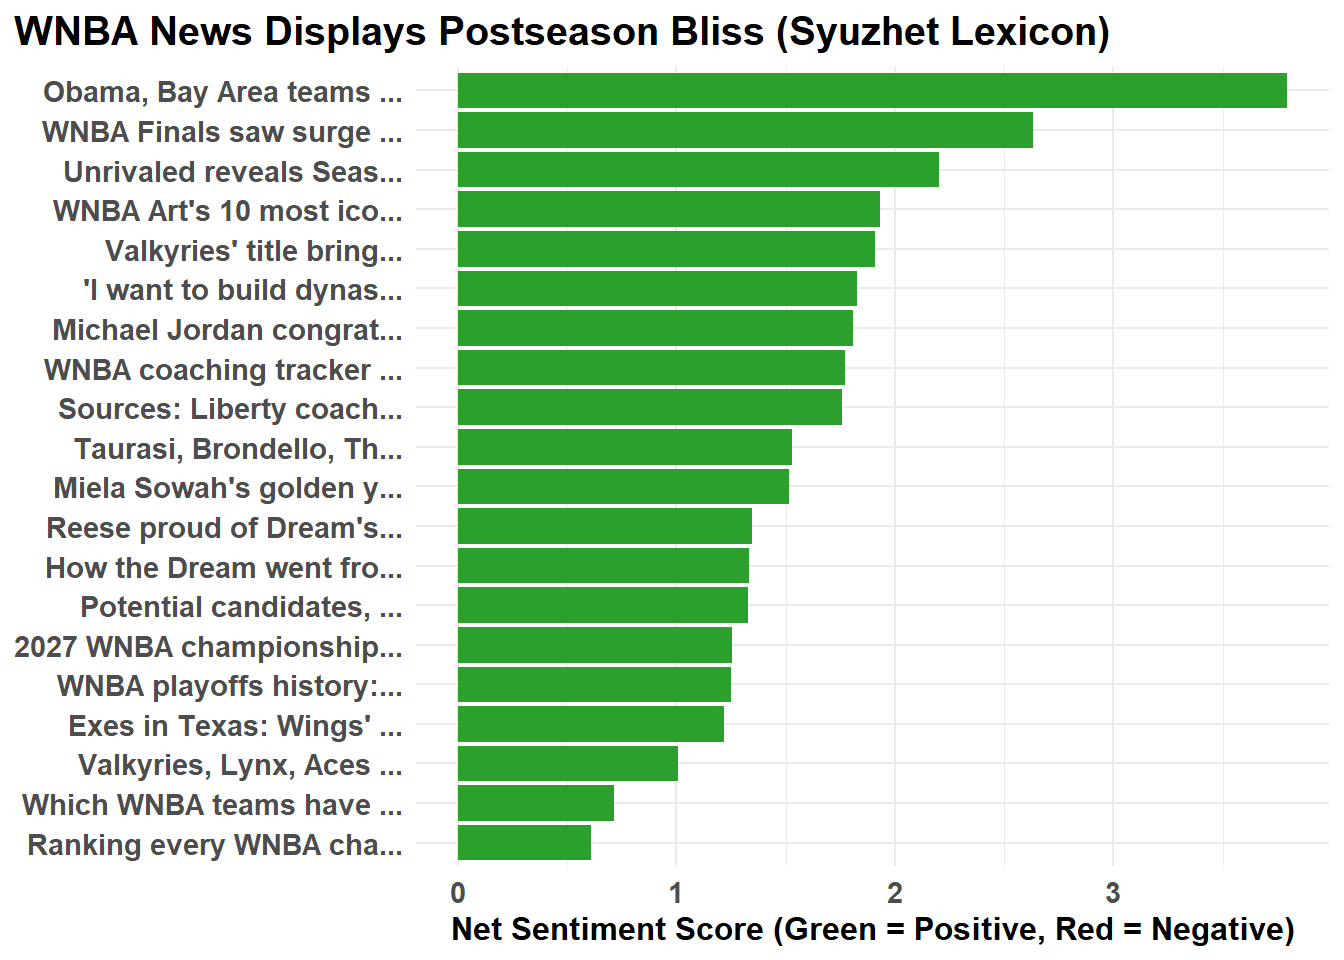
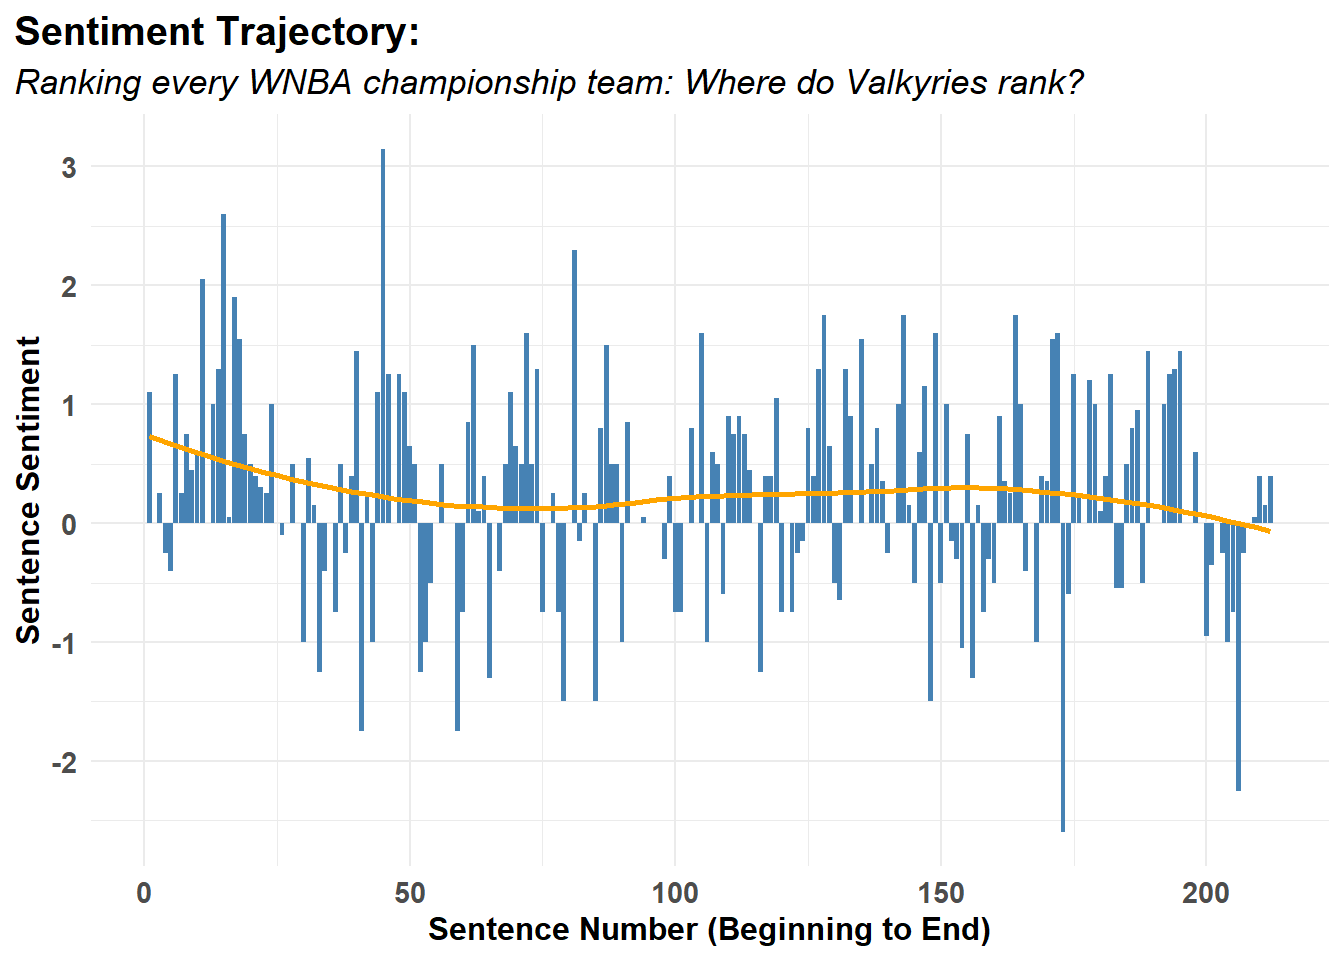
codebase re-render

diff --git a/Assignment10A-KCH-Codebase.html b/Assignment10A-KCH-Codebase.html
@@ -751,9 +751,10 @@ Figure&nbsp;1: Sentiment Trajectory Across Jane Austen Novels Using Bing lexicon
 </section>
 <section id="step-2-extension-to-espns-wnba-news" class="level2">
 <h2 class="anchored" data-anchor-id="step-2-extension-to-espns-wnba-news">Step 2: Extension to ESPN’s WNBA News</h2>
-<p>While RSS feeds provide immediate, structured access to media headlines, RSS descriptions are typically restricted to short teaser blurbs. To create a rich corpus suitable for narrative-level analysis, we use the article hyperlinks embedded in the feed to programmatically extract the complete paragraph text (<code>&lt;p&gt;</code>) from ESPN’s website.</p>
+<p>While RSS feeds provide immediate, structured access to media headlines, RSS descriptions are typically restricted to short teaser blurbs. To create a rich corpus suitable for narrative-level analysis, the article hyperlinks embedded in the feed are used to extract the complete paragraph text (<code>&lt;p&gt;</code>) from ESPN’s website.</p>
 <section id="data-loading" class="level3">
 <h3 class="anchored" data-anchor-id="data-loading">Data loading</h3>
+<p>Real-time media analysis begins with data collection. The <code>tidyRSS</code> package <span class="citation" data-cites="tidyRSS">(<a href="#ref-tidyRSS" role="doc-biblioref">McDonnell 2021</a>)</span> is used to query ESPN’s live WNBA RSS endpoint. While RSS feeds provide structured access to new stories, the feed itself contains only article headlines and brief teaser descriptions.</p>
 <div class="cell">
 <details class="code-fold">
 <summary>Code</summary>
@@ -794,6 +795,9 @@ Figure&nbsp;1: Sentiment Trajectory Across Jane Austen Novels Using Bing lexicon
 </table>
 </div>
 </div>
+To achieve an analytical depth comparable to the full-length chapters analyzed in Jane Austen’s novels, we cannot rely solely on 30-word summary blurbs. Using the canonical URLs captured in the item_link column, we build a custom web scraper using rvest to extract all paragraph elements (
+<p>
+</p><p>) from the body of each reporting piece. A tryCatch wrapper is included to handle potential network timeouts or paywall redirects gracefully, ensuring the Quarto document compiles cleanly without breaking if an individual link fails.</p>
 <div class="cell">
 <details class="code-fold">
 <summary>Code</summary>
@@ -821,6 +825,7 @@ Figure&nbsp;1: Sentiment Trajectory Across Jane Austen Novels Using Bing lexicon
 <p>1. Measuring overall polarity using Matthew Jockers’ <code>syuzhet</code> dictionary.</p>
 <p>2. Extracting the most frequent positive and negative sentiment drivers via <code>bing</code>.</p>
 <p>3. Scaling sentiment by word count to remove length bias, and plotting the sentence-by-sentence narrative arc of the longest feature story.</p>
+<p>First, evaluating the initial feed text using the syuzhet lexicon <span class="citation" data-cites="syuzhet">(<a href="#ref-syuzhet" role="doc-biblioref">Jockers 2020</a>)</span> is undertaken. Unlike binary dictionaries that simply tally words, the Syuzhet engine assigns continuous emotional valence to sentences and short texts.</p>
 <div class="cell">
 <div class="cell-output-display">
 <table class="caption-top table table-sm table-striped small">
@@ -865,6 +870,8 @@ Figure&nbsp;1: Sentiment Trajectory Across Jane Austen Novels Using Bing lexicon
 </div>
 </div>
 </div>
+<p>As visualized in the histogram above ( <span class="citation" data-cites="syuzhet-wnba">(<a href="#ref-syuzhet-wnba" role="doc-biblioref"><strong>syuzhet-wnba?</strong></a>)</span>), the distribution of sentiment across WNBA headlines is strongly right-skewed. Every single article in the feed scores above the neutral baseline (red dashed line at zero). Even articles discussing team struggles or player recoveries are framed through a positive editorial lens (e.g., highlighting resilience or historic milestones).</p>
+<p>To understand which terms drive this positivity, Chapter 2’s tokenization and join methodology is mirrored. The full-text corpus is unnsted into individual words, common stop words are stripped, and the corpus is joined against the bing lexicon to evaluate word-level contribution.</p>
 <div class="cell">
 <div class="cell-output-display">
 <div class="quarto-figure quarto-figure-center">
@@ -875,33 +882,50 @@ Figure&nbsp;1: Sentiment Trajectory Across Jane Austen Novels Using Bing lexicon
 </div>
 </div>
 </div>
+<p>The word contribution plot ( <span class="citation" data-cites="words-wnba">(<a href="#ref-words-wnba" role="doc-biblioref"><strong>words-wnba?</strong></a>)</span> ) illustrates both the strengths and the inherent limitations of using general-purpose lexicons on specialized sports data. First, terms like “lead”, “award”, “championship”, and “top” dominate the positive facet, reflecting celebratory coverage of seasonal awards and championship milestones. Second, terms like “loss”, “foul”, “cold”, and “offensive” heavily populate the negative facet. In sports analytics, these are neutral, mechanical descriptors of play rather than indicators of genuine negative sentiment. This parallels Silge &amp; Robinson’s finding regarding the word “miss” in Austen’s novels.</p>
+<p>When analyzing long-form journalism, raw cumulative sentiment is inherently confounded by article length: a 2,500-word feature story will naturally amass a higher total score than a 250-word roster bulletin simply due to word volume. To resolve this length bias, we compute a length-normalized sentiment index:</p>
+<p><span class="math inline">\(Normalized Score=\frac{Syuzhet Cumulative Sentiment}{Total Word Count }×100\)</span></p>
+<p>This represents the net emotional valence per 100 words of prose.</p>
+<div class="cell">
+<div class="cell-output-display">
+<div class="quarto-figure quarto-figure-center">
+<figure class="figure">
+<p><img src="Assignment10A-KCH-Codebase_files/figure-html/wnba-normalized-scores-1.png" class="img-fluid figure-img" width="672"></p>
+<figcaption>WNBA News Displays Postseason Bliss (Syuzhet Lexicon)</figcaption>
+</figure>
+</div>
+</div>
+</div>
+<p>Normalizing by length reveals that the highest sentiment concentrations belong to forward-looking, celebratory headlines (such as championship parade reporting and franchise dynasty declarations). Even after adjusting for document length, every single article remains net positive, highlighting the pervasive promotional optimism of the WNBA offseason media cycle.</p>
+<p>In Chapter 2, Silge and Robinson demonstrated how Austen’s novels can be viewed as narrative arcs with emotional peaks and valleys. To determine whether modern sports journalism exhibits similar narrative arcs, the longest article in the corpus is isolate, segmented it into individual sentences, and then sentence-level sentiment progression from start to finish can be tracked. A LOESS smoothing curve is overlaid to capture the underlying emotional trajectory.</p>
 <div class="cell">
 <details class="code-fold">
 <summary>Code</summary>
-<div class="code-copy-outer-scaffold"><div class="sourceCode cell-code" id="cb26"><pre class="sourceCode r code-with-copy"><code class="sourceCode r"><span id="cb26-1"><a href="#cb26-1" aria-hidden="true" tabindex="-1"></a>wnba_scored <span class="ot">&lt;-</span> wnba_full_articles <span class="sc">|&gt;</span></span>
-<span id="cb26-2"><a href="#cb26-2" aria-hidden="true" tabindex="-1"></a>  <span class="fu">mutate</span>(</span>
-<span id="cb26-3"><a href="#cb26-3" aria-hidden="true" tabindex="-1"></a>    <span class="at">article_id =</span> <span class="fu">row_number</span>(),</span>
-<span id="cb26-4"><a href="#cb26-4" aria-hidden="true" tabindex="-1"></a>    <span class="at">clean_title =</span> stringr<span class="sc">::</span><span class="fu">str_replace_all</span>(title, <span class="st">"[^</span><span class="sc">\x01</span><span class="st">-</span><span class="sc">\x7F</span><span class="st">]+"</span>, <span class="st">""</span>),</span>
-<span id="cb26-5"><a href="#cb26-5" aria-hidden="true" tabindex="-1"></a>    <span class="at">short_title =</span> stringr<span class="sc">::</span><span class="fu">str_trunc</span>(clean_title, <span class="dv">25</span>),</span>
-<span id="cb26-6"><a href="#cb26-6" aria-hidden="true" tabindex="-1"></a>     <span class="at">word_count =</span> stringr<span class="sc">::</span><span class="fu">str_count</span>(full_article_text, <span class="st">"</span><span class="sc">\\</span><span class="st">w+"</span>),</span>
-<span id="cb26-7"><a href="#cb26-7" aria-hidden="true" tabindex="-1"></a>    <span class="at">sentiment_score =</span> <span class="fu">get_sentiment</span>(full_article_text, <span class="at">method =</span> <span class="st">"syuzhet"</span>),</span>
-<span id="cb26-8"><a href="#cb26-8" aria-hidden="true" tabindex="-1"></a>    <span class="at">sentiment_normalized =</span> (sentiment_score <span class="sc">/</span> word_count) <span class="sc">*</span> <span class="dv">100</span></span>
+<div class="code-copy-outer-scaffold"><div class="sourceCode cell-code" id="cb26"><pre class="sourceCode r code-with-copy"><code class="sourceCode r"><span id="cb26-1"><a href="#cb26-1" aria-hidden="true" tabindex="-1"></a>longest_article <span class="ot">&lt;-</span> wnba_full_articles <span class="sc">|&gt;</span></span>
+<span id="cb26-2"><a href="#cb26-2" aria-hidden="true" tabindex="-1"></a>  <span class="fu">slice_max</span>(<span class="fu">nchar</span>(full_article_text), <span class="at">n =</span> <span class="dv">1</span>)</span>
+<span id="cb26-3"><a href="#cb26-3" aria-hidden="true" tabindex="-1"></a></span>
+<span id="cb26-4"><a href="#cb26-4" aria-hidden="true" tabindex="-1"></a>article_sentences <span class="ot">&lt;-</span> <span class="fu">tibble</span>(<span class="at">text =</span> longest_article<span class="sc">$</span>full_article_text) <span class="sc">|&gt;</span></span>
+<span id="cb26-5"><a href="#cb26-5" aria-hidden="true" tabindex="-1"></a>  <span class="fu">unnest_tokens</span>(sentence, text, <span class="at">token =</span> <span class="st">"sentences"</span>) <span class="sc">|&gt;</span></span>
+<span id="cb26-6"><a href="#cb26-6" aria-hidden="true" tabindex="-1"></a>  <span class="fu">mutate</span>(</span>
+<span id="cb26-7"><a href="#cb26-7" aria-hidden="true" tabindex="-1"></a>    <span class="at">sentence_num =</span> <span class="fu">row_number</span>(),</span>
+<span id="cb26-8"><a href="#cb26-8" aria-hidden="true" tabindex="-1"></a>    <span class="at">sentiment =</span> <span class="fu">get_sentiment</span>(sentence, <span class="at">method =</span> <span class="st">"syuzhet"</span>)</span>
 <span id="cb26-9"><a href="#cb26-9" aria-hidden="true" tabindex="-1"></a>  )</span>
 <span id="cb26-10"><a href="#cb26-10" aria-hidden="true" tabindex="-1"></a></span>
-<span id="cb26-11"><a href="#cb26-11" aria-hidden="true" tabindex="-1"></a>wnba_scored <span class="sc">|&gt;</span> </span>
-<span id="cb26-12"><a href="#cb26-12" aria-hidden="true" tabindex="-1"></a>  <span class="fu">ggplot</span>(<span class="fu">aes</span>(<span class="at">x =</span> <span class="fu">reorder</span>(short_title, sentiment_normalized), </span>
-<span id="cb26-13"><a href="#cb26-13" aria-hidden="true" tabindex="-1"></a>             <span class="at">y =</span> sentiment_normalized, </span>
-<span id="cb26-14"><a href="#cb26-14" aria-hidden="true" tabindex="-1"></a>             <span class="at">fill =</span> sentiment_score <span class="sc">&gt;</span> <span class="dv">0</span>)) <span class="sc">+</span></span>
-<span id="cb26-15"><a href="#cb26-15" aria-hidden="true" tabindex="-1"></a>  <span class="fu">geom_col</span>(<span class="at">show.legend =</span> <span class="cn">FALSE</span>) <span class="sc">+</span></span>
-<span id="cb26-16"><a href="#cb26-16" aria-hidden="true" tabindex="-1"></a>  <span class="fu">coord_flip</span>() <span class="sc">+</span></span>
-<span id="cb26-17"><a href="#cb26-17" aria-hidden="true" tabindex="-1"></a>  <span class="fu">scale_fill_manual</span>(<span class="at">values =</span> <span class="fu">c</span>(<span class="st">"TRUE"</span> <span class="ot">=</span> <span class="st">"#2ca02c"</span>, <span class="st">"FALSE"</span> <span class="ot">=</span> <span class="st">"#d62728"</span>)) <span class="sc">+</span></span>
+<span id="cb26-11"><a href="#cb26-11" aria-hidden="true" tabindex="-1"></a>article_sentences <span class="sc">|&gt;</span> </span>
+<span id="cb26-12"><a href="#cb26-12" aria-hidden="true" tabindex="-1"></a>  <span class="fu">ggplot</span>(<span class="fu">aes</span>(<span class="at">x =</span> sentence_num, <span class="at">y =</span> sentiment)) <span class="sc">+</span></span>
+<span id="cb26-13"><a href="#cb26-13" aria-hidden="true" tabindex="-1"></a>  <span class="fu">geom_col</span>(<span class="at">fill =</span> <span class="st">"steelblue"</span>) <span class="sc">+</span></span>
+<span id="cb26-14"><a href="#cb26-14" aria-hidden="true" tabindex="-1"></a>  <span class="fu">geom_smooth</span>(<span class="at">method =</span> <span class="st">'loess'</span>, </span>
+<span id="cb26-15"><a href="#cb26-15" aria-hidden="true" tabindex="-1"></a>              <span class="at">formula =</span> <span class="st">'y ~ x'</span>, </span>
+<span id="cb26-16"><a href="#cb26-16" aria-hidden="true" tabindex="-1"></a>              <span class="at">se =</span> <span class="cn">FALSE</span>, </span>
+<span id="cb26-17"><a href="#cb26-17" aria-hidden="true" tabindex="-1"></a>              <span class="at">color =</span> <span class="st">"orange"</span>) <span class="sc">+</span></span>
 <span id="cb26-18"><a href="#cb26-18" aria-hidden="true" tabindex="-1"></a>  <span class="fu">theme_minimal</span>() <span class="sc">+</span></span>
 <span id="cb26-19"><a href="#cb26-19" aria-hidden="true" tabindex="-1"></a>  <span class="fu">labs</span>(</span>
-<span id="cb26-20"><a href="#cb26-20" aria-hidden="true" tabindex="-1"></a>    <span class="at">title =</span> <span class="st">"WNBA News Displays Postseason Bliss (Syuzhet Lexicon)"</span>,</span>
-<span id="cb26-21"><a href="#cb26-21" aria-hidden="true" tabindex="-1"></a>    <span class="at">x =</span> <span class="cn">NULL</span>,</span>
-<span id="cb26-22"><a href="#cb26-22" aria-hidden="true" tabindex="-1"></a>    <span class="at">y =</span> <span class="st">"Net Sentiment Score (Green = Positive, Red = Negative)"</span></span>
-<span id="cb26-23"><a href="#cb26-23" aria-hidden="true" tabindex="-1"></a>  ) <span class="sc">+</span></span>
-<span id="cb26-24"><a href="#cb26-24" aria-hidden="true" tabindex="-1"></a>  <span class="fu">theme_standard</span>()</span></code></pre></div><button title="Copy to Clipboard" class="code-copy-button"><i class="bi"></i></button></div>
+<span id="cb26-20"><a href="#cb26-20" aria-hidden="true" tabindex="-1"></a>    <span class="at">title =</span> <span class="st">"Sentiment Trajectory:"</span>,</span>
+<span id="cb26-21"><a href="#cb26-21" aria-hidden="true" tabindex="-1"></a>    <span class="at">subtitle =</span> <span class="fu">paste</span>(stringr<span class="sc">::</span><span class="fu">str_trunc</span>(longest_article<span class="sc">$</span>title, <span class="dv">90</span>)),</span>
+<span id="cb26-22"><a href="#cb26-22" aria-hidden="true" tabindex="-1"></a>    <span class="at">x =</span> <span class="st">"Sentence Number (Beginning to End)"</span>,</span>
+<span id="cb26-23"><a href="#cb26-23" aria-hidden="true" tabindex="-1"></a>    <span class="at">y =</span> <span class="st">"Sentence Sentiment"</span></span>
+<span id="cb26-24"><a href="#cb26-24" aria-hidden="true" tabindex="-1"></a>  ) <span class="sc">+</span></span>
+<span id="cb26-25"><a href="#cb26-25" aria-hidden="true" tabindex="-1"></a>  <span class="fu">theme_standard</span>()</span></code></pre></div><button title="Copy to Clipboard" class="code-copy-button"><i class="bi"></i></button></div>
 </details>
 <div class="cell-output-display">
 <div>
@@ -911,43 +935,12 @@ Figure&nbsp;1: Sentiment Trajectory Across Jane Austen Novels Using Bing lexicon
 </div>
 </div>
 </div>
-<div class="cell">
-<details class="code-fold">
-<summary>Code</summary>
-<div class="code-copy-outer-scaffold"><div class="sourceCode cell-code" id="cb27"><pre class="sourceCode r code-with-copy"><code class="sourceCode r"><span id="cb27-1"><a href="#cb27-1" aria-hidden="true" tabindex="-1"></a>longest_article <span class="ot">&lt;-</span> wnba_full_articles <span class="sc">|&gt;</span></span>
-<span id="cb27-2"><a href="#cb27-2" aria-hidden="true" tabindex="-1"></a>  <span class="fu">slice_max</span>(<span class="fu">nchar</span>(full_article_text), <span class="at">n =</span> <span class="dv">1</span>)</span>
-<span id="cb27-3"><a href="#cb27-3" aria-hidden="true" tabindex="-1"></a></span>
-<span id="cb27-4"><a href="#cb27-4" aria-hidden="true" tabindex="-1"></a>article_sentences <span class="ot">&lt;-</span> <span class="fu">tibble</span>(<span class="at">text =</span> longest_article<span class="sc">$</span>full_article_text) <span class="sc">|&gt;</span></span>
-<span id="cb27-5"><a href="#cb27-5" aria-hidden="true" tabindex="-1"></a>  <span class="fu">unnest_tokens</span>(sentence, text, <span class="at">token =</span> <span class="st">"sentences"</span>) <span class="sc">|&gt;</span></span>
-<span id="cb27-6"><a href="#cb27-6" aria-hidden="true" tabindex="-1"></a>  <span class="fu">mutate</span>(</span>
-<span id="cb27-7"><a href="#cb27-7" aria-hidden="true" tabindex="-1"></a>    <span class="at">sentence_num =</span> <span class="fu">row_number</span>(),</span>
-<span id="cb27-8"><a href="#cb27-8" aria-hidden="true" tabindex="-1"></a>    <span class="at">sentiment =</span> <span class="fu">get_sentiment</span>(sentence, <span class="at">method =</span> <span class="st">"syuzhet"</span>)</span>
-<span id="cb27-9"><a href="#cb27-9" aria-hidden="true" tabindex="-1"></a>  )</span>
-<span id="cb27-10"><a href="#cb27-10" aria-hidden="true" tabindex="-1"></a></span>
-<span id="cb27-11"><a href="#cb27-11" aria-hidden="true" tabindex="-1"></a>article_sentences <span class="sc">|&gt;</span> </span>
-<span id="cb27-12"><a href="#cb27-12" aria-hidden="true" tabindex="-1"></a>  <span class="fu">ggplot</span>(<span class="fu">aes</span>(<span class="at">x =</span> sentence_num, <span class="at">y =</span> sentiment)) <span class="sc">+</span></span>
-<span id="cb27-13"><a href="#cb27-13" aria-hidden="true" tabindex="-1"></a>  <span class="fu">geom_col</span>(<span class="at">fill =</span> <span class="st">"steelblue"</span>) <span class="sc">+</span></span>
-<span id="cb27-14"><a href="#cb27-14" aria-hidden="true" tabindex="-1"></a>  <span class="fu">geom_smooth</span>(<span class="at">method =</span> <span class="st">'loess'</span>, </span>
-<span id="cb27-15"><a href="#cb27-15" aria-hidden="true" tabindex="-1"></a>              <span class="at">formula =</span> <span class="st">'y ~ x'</span>, </span>
-<span id="cb27-16"><a href="#cb27-16" aria-hidden="true" tabindex="-1"></a>              <span class="at">se =</span> <span class="cn">FALSE</span>, </span>
-<span id="cb27-17"><a href="#cb27-17" aria-hidden="true" tabindex="-1"></a>              <span class="at">color =</span> <span class="st">"orange"</span>) <span class="sc">+</span></span>
-<span id="cb27-18"><a href="#cb27-18" aria-hidden="true" tabindex="-1"></a>  <span class="fu">theme_minimal</span>() <span class="sc">+</span></span>
-<span id="cb27-19"><a href="#cb27-19" aria-hidden="true" tabindex="-1"></a>  <span class="fu">labs</span>(</span>
-<span id="cb27-20"><a href="#cb27-20" aria-hidden="true" tabindex="-1"></a>    <span class="at">title =</span> <span class="st">"Sentiment Trajectory:"</span>,</span>
-<span id="cb27-21"><a href="#cb27-21" aria-hidden="true" tabindex="-1"></a>    <span class="at">subtitle =</span> <span class="fu">paste</span>(stringr<span class="sc">::</span><span class="fu">str_trunc</span>(longest_article<span class="sc">$</span>title, <span class="dv">90</span>)),</span>
-<span id="cb27-22"><a href="#cb27-22" aria-hidden="true" tabindex="-1"></a>    <span class="at">x =</span> <span class="st">"Sentence Number (Beginning to End)"</span>,</span>
-<span id="cb27-23"><a href="#cb27-23" aria-hidden="true" tabindex="-1"></a>    <span class="at">y =</span> <span class="st">"Sentence Sentiment"</span></span>
-<span id="cb27-24"><a href="#cb27-24" aria-hidden="true" tabindex="-1"></a>  ) <span class="sc">+</span></span>
-<span id="cb27-25"><a href="#cb27-25" aria-hidden="true" tabindex="-1"></a>  <span class="fu">theme_standard</span>()</span></code></pre></div><button title="Copy to Clipboard" class="code-copy-button"><i class="bi"></i></button></div>
-</details>
-<div class="cell-output-display">
-<div>
-<figure class="figure">
-<p><img src="Assignment10A-KCH-Codebase_files/figure-html/unnamed-chunk-6-1.png" class="img-fluid figure-img" width="672"></p>
-</figure>
-</div>
-</div>
-</div>
+<p>The trajectory plot reflects the analytical, comparative structure of a sports ranking listicle:</p>
+<ul>
+<li>Celebratory Opening: The curve begins in elevated positive territory as the author introduces the newly crowned champion (the Valkyries) and establishes the criteria for all-time great teams.</li>
+<li>Balanced Evaluation: Across sentences 40 to 160, sentiment oscillates evenly around a modest baseline, balancing praise with critique across decades of past champions.</li>
+<li>Critique and Conclusions: Rather than a triumphant rebound, the LOESS curve drifts downward and dips slightly below zero near sentence 200. In sports ranking retrospectives, lower-ranked championship teams are routinely evaluated by their flaws (such as poor regular-season win percentages, playoff close-calls, or roster limitations) compared to dominant dynasties.</li>
+</ul>
 </section>
 <section id="findings-and-recommendations" class="level3">
 <h3 class="anchored" data-anchor-id="findings-and-recommendations">Findings and Recommendations</h3>
